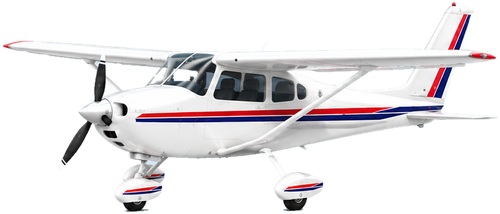
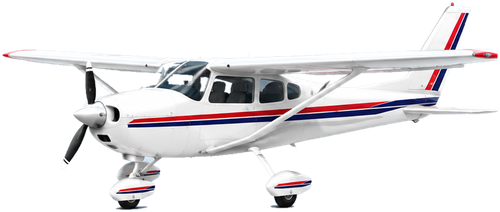
feat: render nuevo para Monomotor y Experimental / LSA
(cherry picked from commit 8d95689b0816c982ed0e86bfcb4018115126047d)

Changed region(s): [[0.0, 0.0283, 1.0, 0.9906], [0.51, 0.7925, 0.66, 0.9906], [0.9, 0.0, 0.93, 0.0283]]

diff --git a/components/ui/AircraftTypesSection.tsx b/components/ui/AircraftTypesSection.tsx
@@ -14,7 +14,7 @@ const TYPES = [
     name: "Monomotor",
     image: "monomotor",
     width: 500,
-    height: 214,
+    height: 212,
     categories: ["MP", "MT"],
   },
   {
@@ -28,7 +28,7 @@ const TYPES = [
     name: "Experimental / LSA",
     image: "experimental-lsa",
     width: 500,
-    height: 171,
+    height: 203,
     categories: ["E"],
   },
   {
